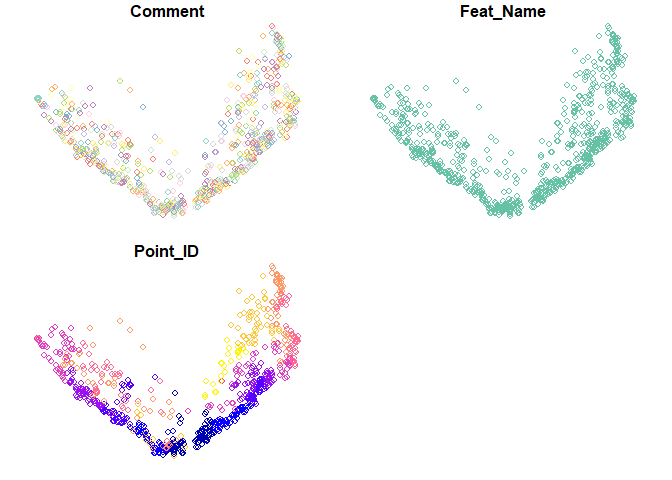
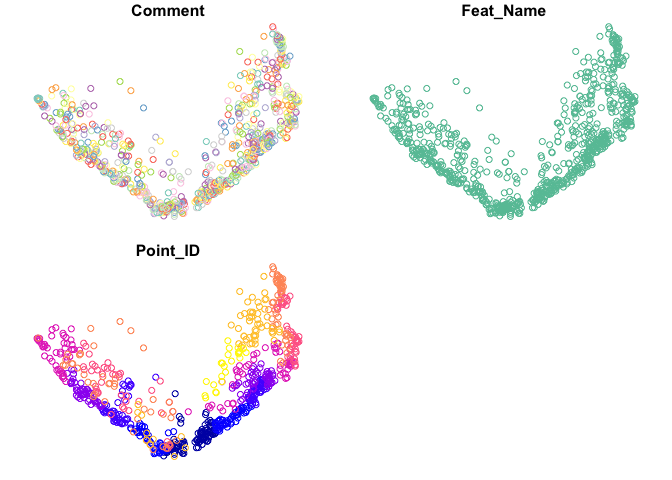
Read and visualize gull data

diff --git a/proposal/proposal.md b/proposal/proposal.md
@@ -6,6 +6,7 @@ Eleanor and Wriley
 library(tidyverse)
 library(broom)
 library(sf)
+library(forcats)
 ```
 
 ## 1. Introduction
@@ -148,3 +149,23 @@ found or banded in which burrow and their morphometrics):
 Much of our data analysis will involve mapping spatial data, so an early
 part of our data analysis will include learning to work with this sort
 of data. NOTE: Eleanor finish this paragraph
+
+    ## New names:
+    ## Rows: 1087 Columns: 10
+    ## ── Column specification
+    ## ──────────────────────────────────────────────────────── Delimiter: "," chr
+    ## (2): habitat, nest...6 dbl (8): ...1, clutch, hatch_seq, chick, nest...7, date,
+    ## weight, chickage
+    ## ℹ Use `spec()` to retrieve the full column specification for this data. ℹ
+    ## Specify the column types or set `show_col_types = FALSE` to quiet this message.
+    ## Rows: 53 Columns: 5
+    ## ── Column specification
+    ## ──────────────────────────────────────────────────────── Delimiter: "," chr
+    ## (1): habitat dbl (4): nest_number, clutch, fledging_success, Percent Success
+    ## ℹ Use `spec()` to retrieve the full column specification for this data. ℹ
+    ## Specify the column types or set `show_col_types = FALSE` to quiet this message.
+    ## • `` -> `...1`
+    ## • `nest...4` -> `nest...6`
+    ## • `nest...5` -> `nest...7`
+
+![](proposal_files/figure-gfm/gull%20exploratory%20visualization-1.png)<!-- -->![](proposal_files/figure-gfm/gull%20exploratory%20visualization-2.png)<!-- -->
